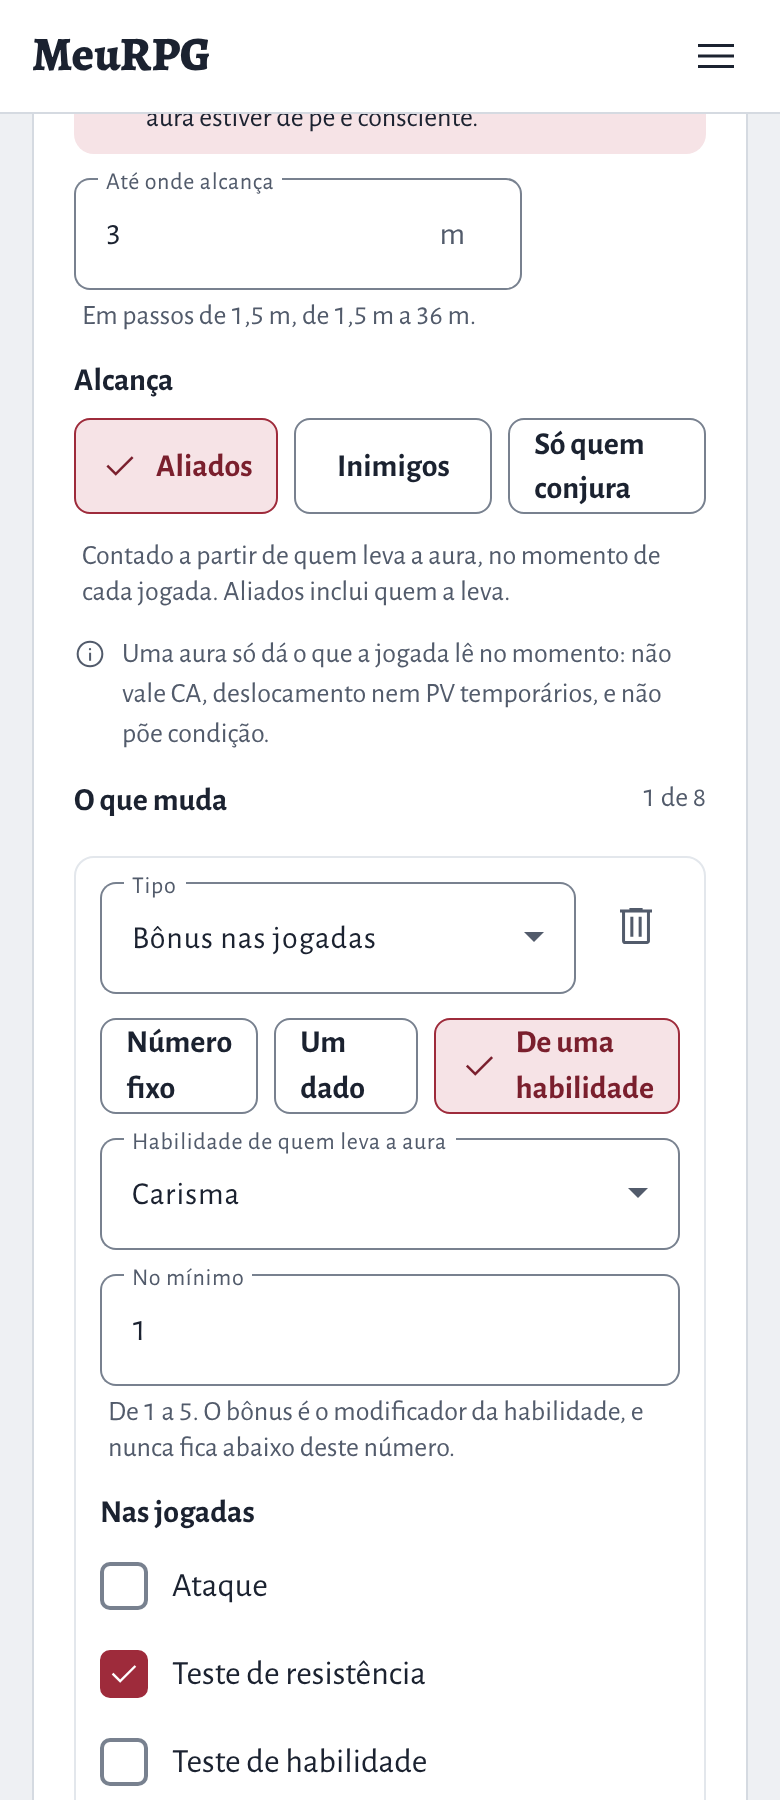
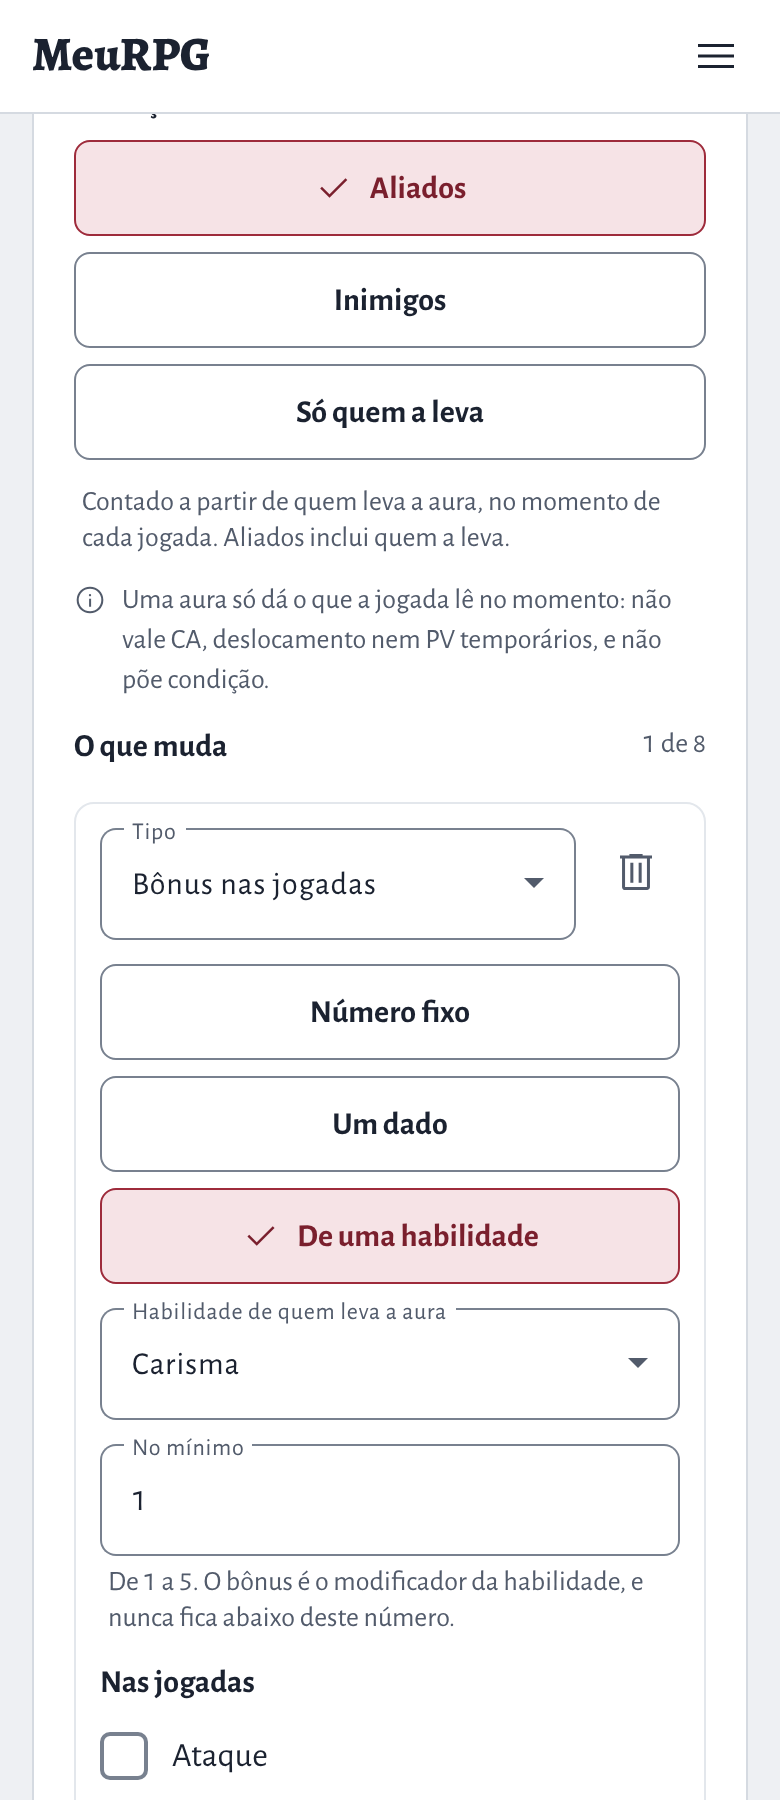
579-i: the feature aura's segments equal in width and stacked at 390, "Só quem a leva", re-taken shots

diff --git a/table-auras-579/README.md b/table-auras-579/README.md
@@ -15,6 +15,6 @@ Captured on `feat/table-auras-579`, light and dark, at 390, 768 and 1280 (the ma
 Captured on `feat/table-auras-579-feature`: the class feature editor with the effect type "Aura" (Aura de Proteção, paladin level 6: the Charisma modifier, at least +1, on saving throws only, as SRD 5.1 has it).
 The editors are offered from 768 up. The 390 shots turn off only the script's own phone query, so the block's CSS runs at 390 (the page around it is the laptop one).
 
-- `579-i-aura-da-caracteristica` the spell's effect block as a feature has it: no switch and no duration to set (a line says it holds the whole combat), the range, "Alcança" as three equal segments in one row, and the roll bonus taken "De uma habilidade" with the ability and "No mínimo" side by side in a row of their own. Light at 1280, 768 and 390; dark at 1024 and 390.
-- At 390 the three segments keep equal width in one row (their words wrap inside the cell, no orphan), the two fields stack full-width, and the line about the whole combat wraps beside its icon.
-- `579-i-segmentos-2x` a 2x crop of the roll mode's three segments at 390, both themes.
+- `579-i-aura-da-caracteristica` the spell's effect block as a feature has it: no switch and no duration to set (a line says it holds the whole combat), the range, "Alcança" as three equal segments (Aliados, Inimigos, "Só quem a leva": a feature's aura reads "a leva", the spell editor keeps "Só quem conjura"), and the roll bonus taken "De uma habilidade" with the ability and "No mínimo" side by side in a row of their own. Light at 1280, 768 and 390; dark at 1024 and 390.
+- At 390 the segments of a group ("Alcança" and the roll mode: Número fixo, Um dado, De uma habilidade) are stacked as full-width rows of one group, equal in width, the check inside the chosen row and no label broken; from 480 up they stay three equal thirds in one row (768 shows it). The e2e check `expectEqualSegments` (a11y.spec.ts) asserts the segments of a group are equal within 1 px and no word breaks; it failed on the previous build (a 51.6 px difference) and passes now at 320, 390, 768, 1024 and 1280. The two fields stack full-width and the line about the whole combat wraps beside its icon.
+- `579-i-segmentos-2x` a 2x crop of the roll mode's three stacked segments at 390, both themes.
